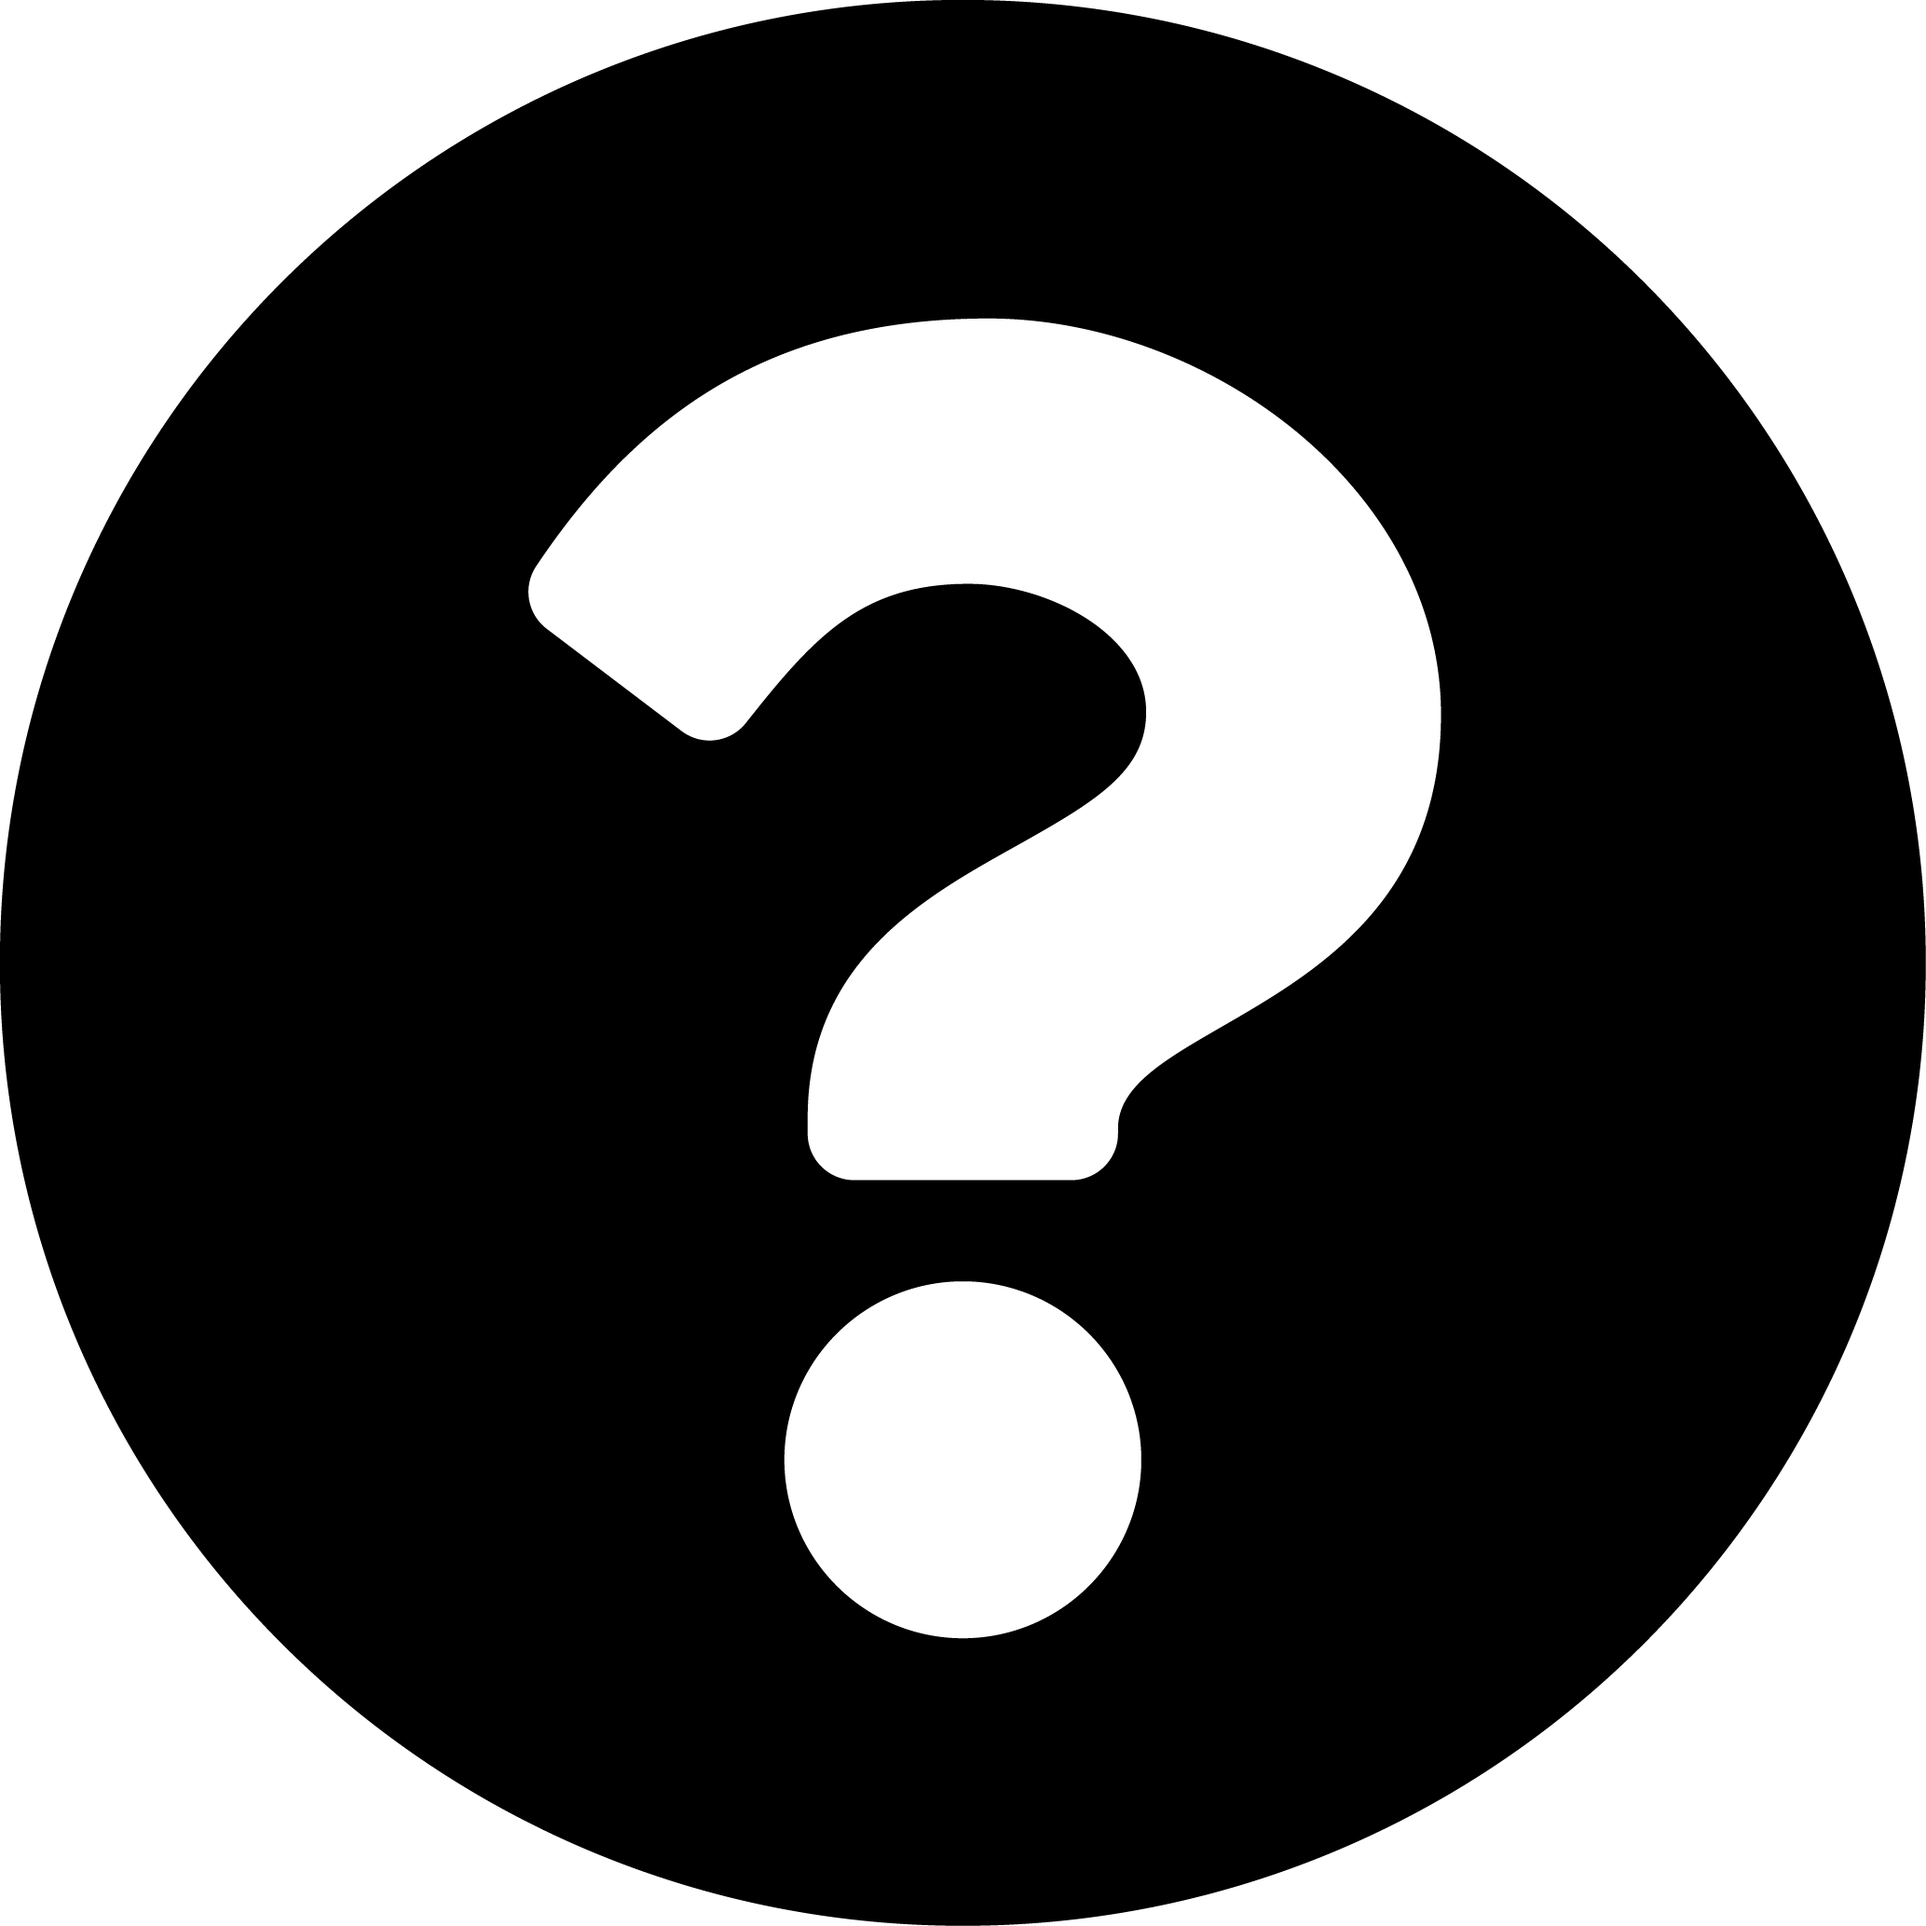
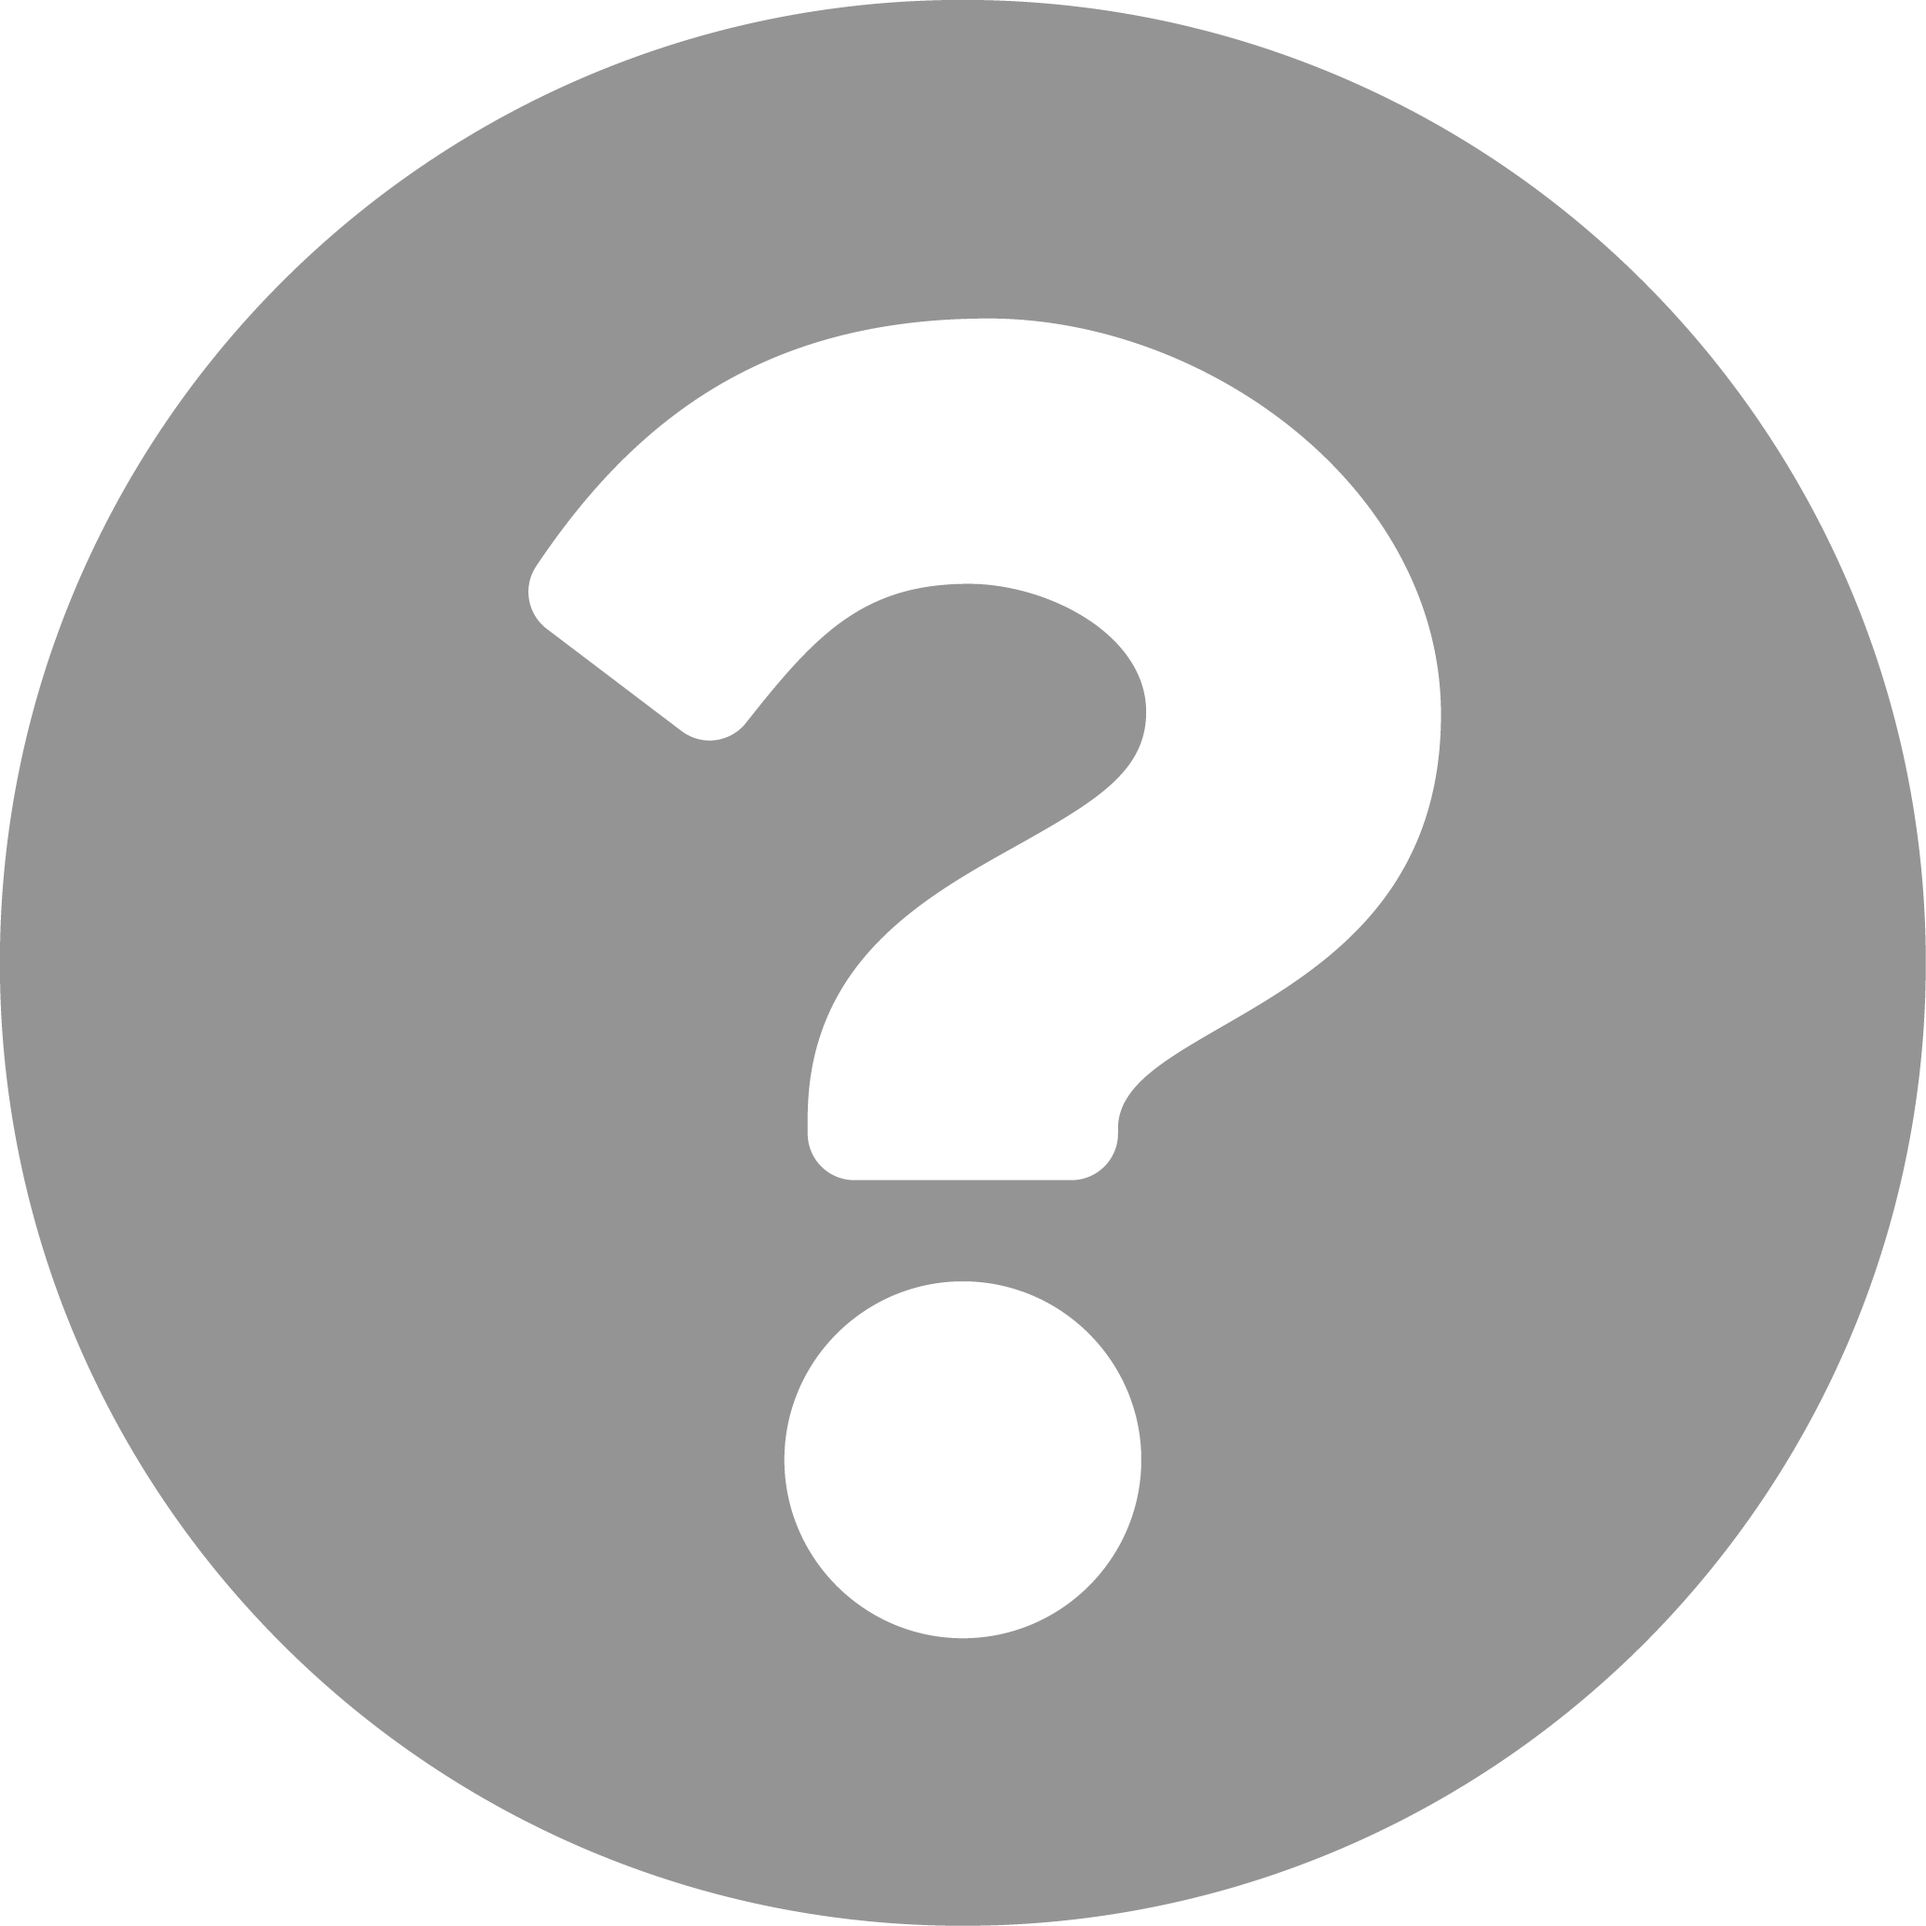
navbar fix

diff --git a/app/assets/stylesheets/components/_navbar.scss b/app/assets/stylesheets/components/_navbar.scss
@@ -1,147 +1,183 @@
-
-.navbar{  
-
-  background: white;
-    padding: 3px 5vw 0 5vw;
-    display: flex;
-    box-shadow: 0px 5px 5px 0px rgb(219, 219, 219);
-    width: 100vw;   
-    // flex-direction: column;
-    align-items: center;
-    justify-content: center;
-    text-align: center;
+.navbar {
+  width: 100%;
+  background-color: white;
 }
-li{
-  font-weight:bold;
-  display: inline;
-  color: $gray;
-    a{
-      text-decoration: none;
-      color: inherit;
-    }
-  }
-  @media screen and (max-width: 768px) { 
- .container{  display: flex;
-  align-items: center;
-  flex-direction: column;
+.navbarContent {
+  width: 90%;
+  margin-left: 10%;
 }
-}
-
-@media screen and (min-width: 768px) { 
-  .navbar {
-    // justify-content: space-between;
-    background: white;
-    padding: 13px 15vw 0 15vw;
-    display: flex;
-    flex-wrap: nowrap;
-    height: 70px;
-    box-shadow: 0px 5px 5px 0px rgb(219, 219, 219);
-    width: 100vw;
-    // flex-direction: column;
-    align-items: center;
-    justify-content: center;
-    text-align: center;
-  }
-
-.search-bar-nav{
-  margin: 3px 25px 0 25px;
-  width: 350px;
-  font-family: Arial, Helvetica, sans-serif;
-}
-
-.items-list {
-  display: flex;
- flex-direction: row;
- li{
- font-weight:bold;
- display: inline;
- color: $gray;
-   a{
-     text-decoration: none;
-     color: inherit;
-   }
- }
-}
-} 
-
-
-.navbar-logo{
+.navbar-logo {
   width: 120px;
+  margin-left: 10%;
 }
-
-
-.button-blue{
-  display: inline-block;
-  margin-top: 3px;
-  padding: 6px 25px 6px 25px;
-  text-align: center;
-  line-height: initial;
-  color: white !important;
-  background-color: $blue;
-  border: solid 1px $blue;
-  border-radius: 5%;
+.nav-link {
+  color: #949494 !important;
   font-family: Arial, Helvetica, sans-serif;
-  font-weight: bold;
-  height: 30px;
-  text-decoration: none;
-    
+  padding: 0 0 0 5px;
 }
-  
-.button-blue:hover{
-  background-color: $yellow;
-  border: solid 1px $yellow;
-  text-decoration: none;
-  
+.navOption{
+  display:flex;
+  margin-right: 10px;
+}
+.search-bar-nav {
+  border: 1px solid #E2E2E2;
+  border-radius: 6px;
+  padding: 0 10px 0 10px;
+}
+.navbarButton {
+  background-color: #004494;
+  border-radius: 6px;
+  p {
+    color: white;
+    margin: 0;
+    padding: 3px 10px 3px 10px;
+  }
 }
 
+// .navbar{  
 
-// .navbar .navbar-expand-sm .navbar-light .navbar-lewagon{
+//   background: white;
+//     padding: 3px 5vw 0 5vw;
+//     display: flex;
+//     box-shadow: 0px 5px 5px 0px rgb(219, 219, 219);
+//     width: 100vw;   
+//     // flex-direction: column;
+//     align-items: center;
+//     justify-content: center;
+//     text-align: center;
+// }
+// li{
+//   font-weight:bold;
+//   display: inline;
+//   color: $gray;
+//     a{
+//       text-decoration: none;
+//       color: inherit;
+//     }
+//   }
+//   @media screen and (max-width: 768px) { 
+//  .container{  display: flex;
+//   align-items: center;
+//   flex-direction: column;
+// }
 // }
 
-// .navbar-lewagon .navbar-collapse {
-//   flex-grow: 0;
-// }
-
-// .navbar-lewagon .navbar-brand img {
-//   width: 110px;
-//   padding: 0 0 10px 0;
-// }
-// .search-bar{
-//   margin-top: 120x;
-// }
+// @media screen and (min-width: 768px) { 
+//   
+//   .navbar {
+//     // // justify-content: space-between;
+//     // background: white;
+//     // padding: 13px 15vw 0 15vw;
+//     // display: flex;
+//     // flex-wrap: nowrap;
+//     // height: 70px;
+//     // box-shadow: 0px 5px 5px 0px rgb(219, 219, 219);
+//     // width: 100vw;
+//     // // flex-direction: column;
+//     // align-items: center;
+//     // justify-content: center;
+//     // text-align: center;
+//   }
 
 // .search-bar-nav{
+//   margin: 3px 25px 0 25px;
 //   width: 350px;
 //   font-family: Arial, Helvetica, sans-serif;
 // }
 
-// .navbar-logo img{
-//  width: 40px;
+// .items-list {
+//   display: flex;
+//  flex-direction: row;
+//  li{
+//  font-weight:bold;
+//  display: inline;
+//  color: $gray;
+//    a{
+//      text-decoration: none;
+//      color: inherit;
+//    }
+//  }
+// }
+// } 
+
+
+// .navbar-logo{
+//   width: 120px;
 // }
 
-// .nav-link {
-//   color: $gray !important;
+
+// .button-blue{
+//   display: inline-block;
+//   margin-top: 3px;
+//   padding: 6px 25px 6px 25px;
+//   text-align: center;
+//   line-height: initial;
+//   color: white !important;
+//   background-color: $blue;
+//   border: solid 1px $blue;
+//   border-radius: 5%;
 //   font-family: Arial, Helvetica, sans-serif;
+//   font-weight: bold;
+//   height: 30px;
+//   text-decoration: none;
+    
 // }
-
-// .nav-item{
-//   .button-blue{
-//     margin-top: 50px;
-//     padding: 5px 25px 5px 25px;
-//     color: white;
-//     background-color: $blue;
-//     border: solid 1px $blue;
-//     border-radius: 5%;
-//     font-family: Arial, Helvetica, sans-serif;
-//     font-weight: 550;
-//     height: 30px;
-//     text-decoration: none;
-//   }
-// }
-
+  
 // .button-blue:hover{
 //   background-color: $yellow;
 //   border: solid 1px $yellow;
-//   color: $blue;
 //   text-decoration: none;
+  
 // }
+
+
+// // .navbar .navbar-expand-sm .navbar-light .navbar-lewagon{
+// // }
+
+// // .navbar-lewagon .navbar-collapse {
+// //   flex-grow: 0;
+// // }
+
+// // .navbar-lewagon .navbar-brand img {
+// //   width: 110px;
+// //   padding: 0 0 10px 0;
+// // }
+// // .search-bar{
+// //   margin-top: 120x;
+// // }
+
+// // .search-bar-nav{
+// //   width: 350px;
+// //   font-family: Arial, Helvetica, sans-serif;
+// // }
+
+// // .navbar-logo img{
+// //  width: 40px;
+// // }
+
+// // .nav-link {
+// //   color: $gray !important;
+// //   font-family: Arial, Helvetica, sans-serif;
+// // }
+
+// // .nav-item{
+// //   .button-blue{
+// //     margin-top: 50px;
+// //     padding: 5px 25px 5px 25px;
+// //     color: white;
+// //     background-color: $blue;
+// //     border: solid 1px $blue;
+// //     border-radius: 5%;
+// //     font-family: Arial, Helvetica, sans-serif;
+// //     font-weight: 550;
+// //     height: 30px;
+// //     text-decoration: none;
+// //   }
+// // }
+
+// // .button-blue:hover{
+// //   background-color: $yellow;
+// //   border: solid 1px $yellow;
+// //   color: $blue;
+// //   text-decoration: none;
+// // }
